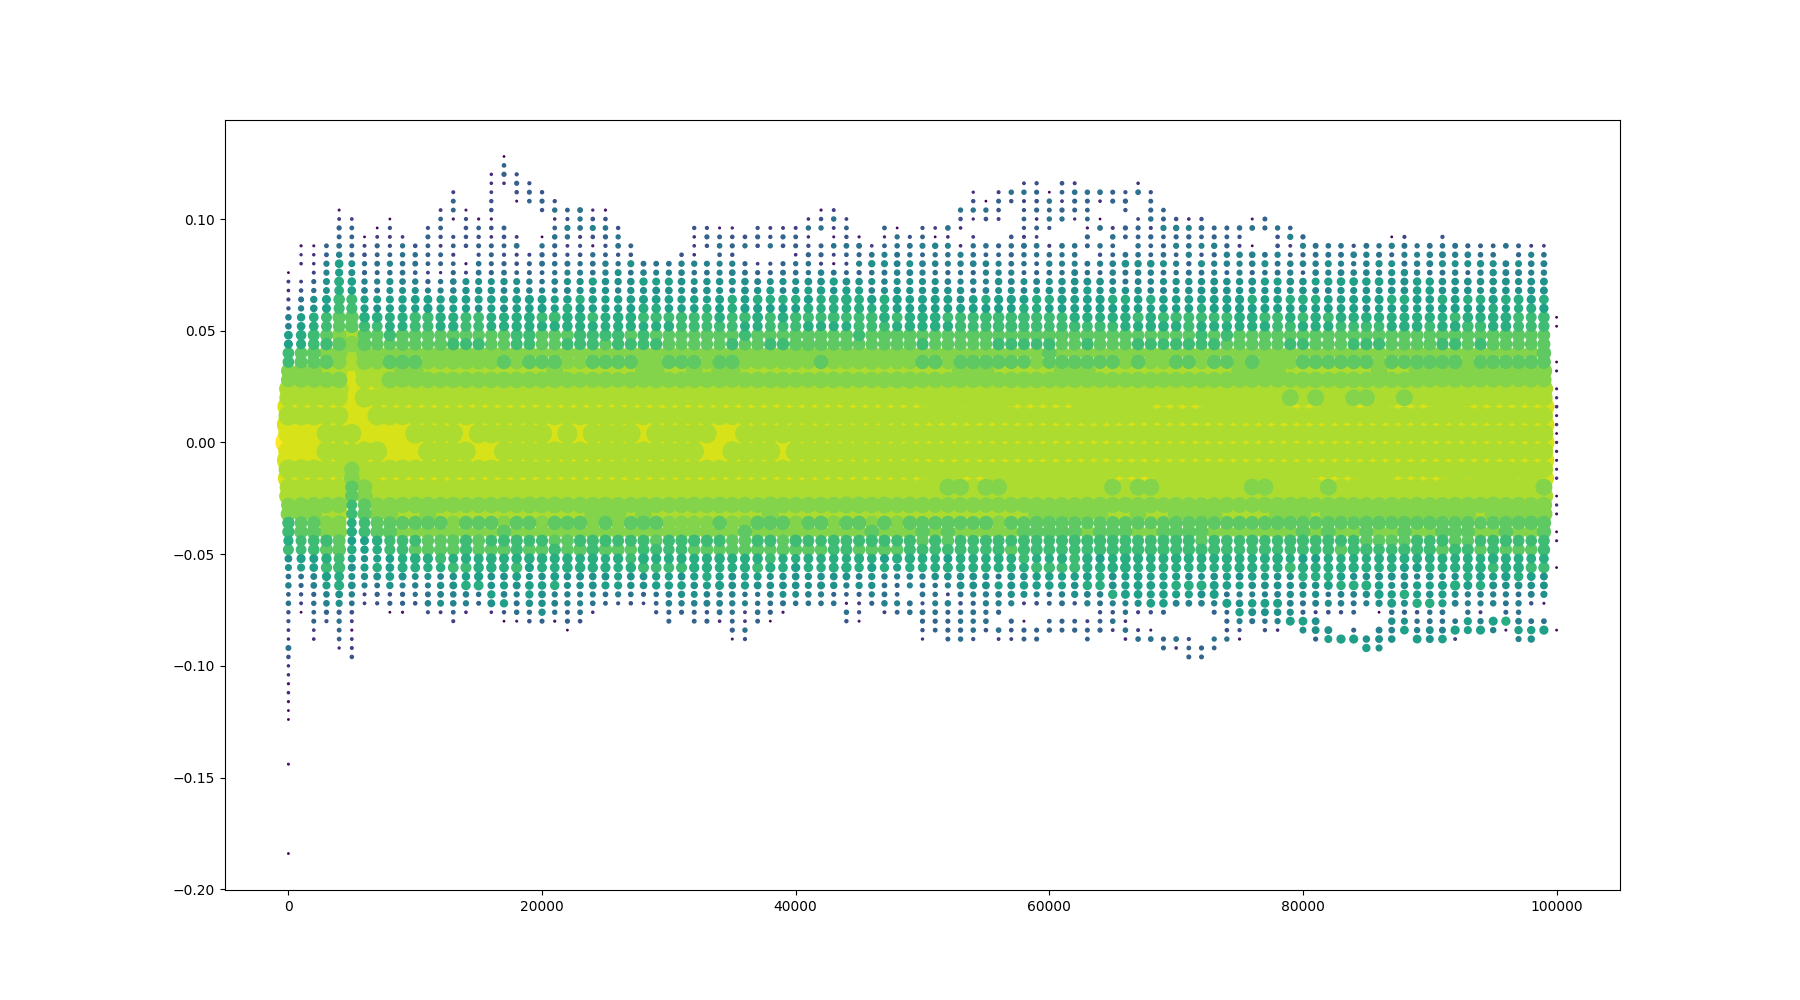
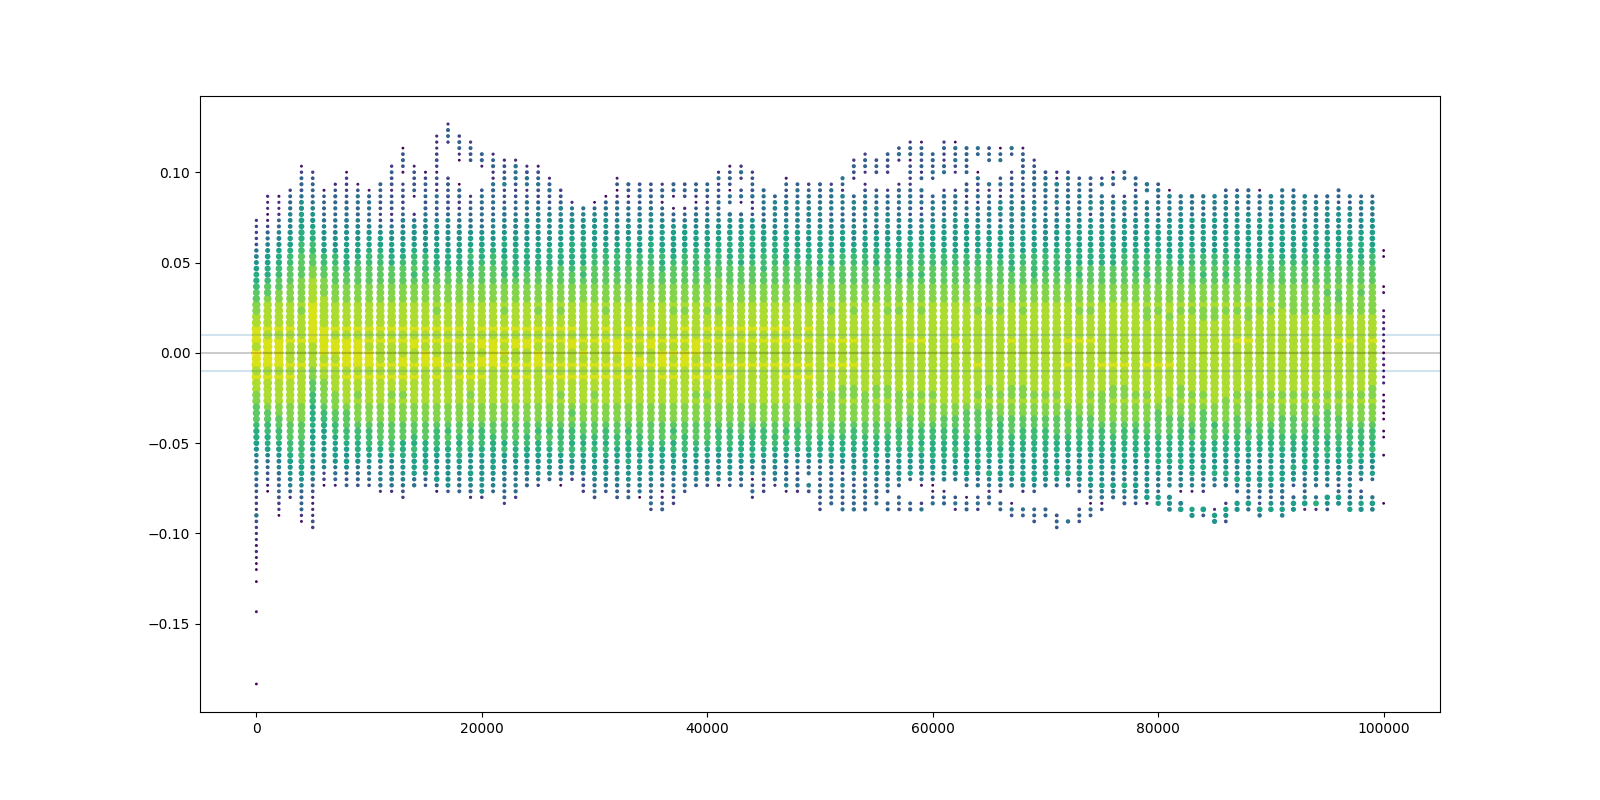
better plots

diff --git a/plot_add.py b/plot_add.py
@@ -2,7 +2,7 @@
 
 import argparse
 from collections import defaultdict, Counter
-from math import log, log2, sqrt
+from math import log, log2
 import sys
 
 import matplotlib
@@ -27,17 +27,16 @@ def main():
         for occurrence_count, item_count, error in points:
             x.append(item_count)
             y.append(error)
-            s.append(sqrt(occurrence_count))
+            s.append(occurrence_count ** (1/3))
             c.append(int(log2(occurrence_count)))
 
-        plt.rcParams["figure.figsize"] = [18, 10]
+        plt.rcParams["figure.figsize"] = [16, 8]
         plt.clf()
-        plt.rcParams["figure.figsize"] = [18, 10]
+        plt.axhline(0, color='k', alpha=.2)
+        plt.axhline(0.01, alpha=.2)
+        plt.axhline(-0.01, alpha=.2)
         plt.scatter(x, y, s=s, c=c)
         plt.savefig('add.{}.png'.format(algo_name))
-
-
-
 
 
 def load(debug):
@@ -49,16 +48,17 @@ def load(debug):
         if n % 1000000 == 0 and n > 0:
             print('Loaded {:3}M rows'.format(n // 1000000))
         occurrence_count, algorithm, item_count, error = line.split()
+
+        scaledown_x = 10 if algorithm.startswith('hyperloglog:') else 1000
+        scaledown_y = 300
+
         key = (
             (int(item_count) // 1000) * 1000,
-            round(float(error) * 250) / 250,
+            round(float(error) * scaledown_y) / scaledown_y,
         )
         data[algorithm][key] += int(occurrence_count)
 
     return data
-
-
-
 
 
 if __name__ == '__main__':
